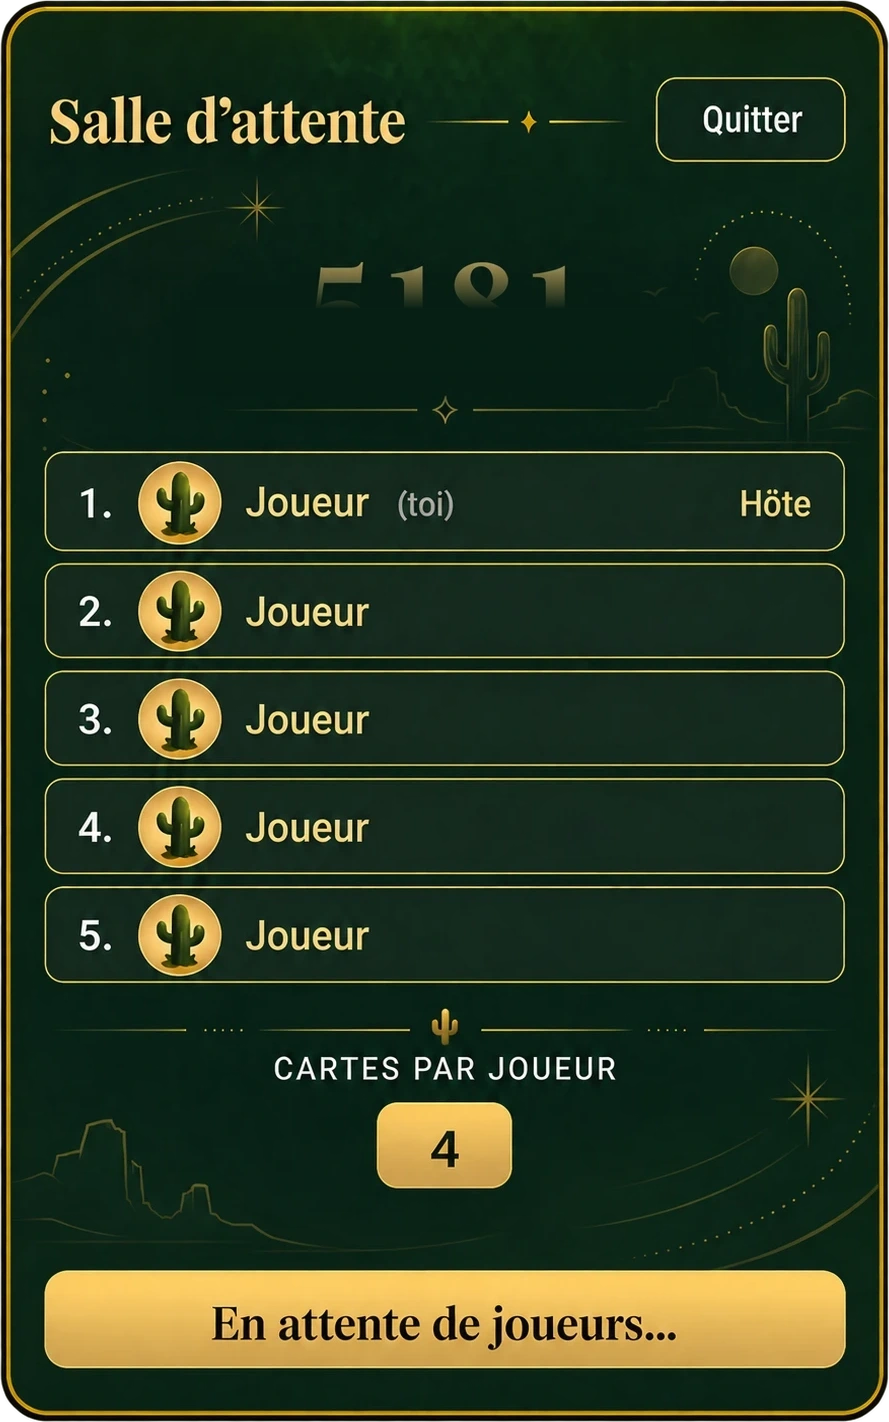
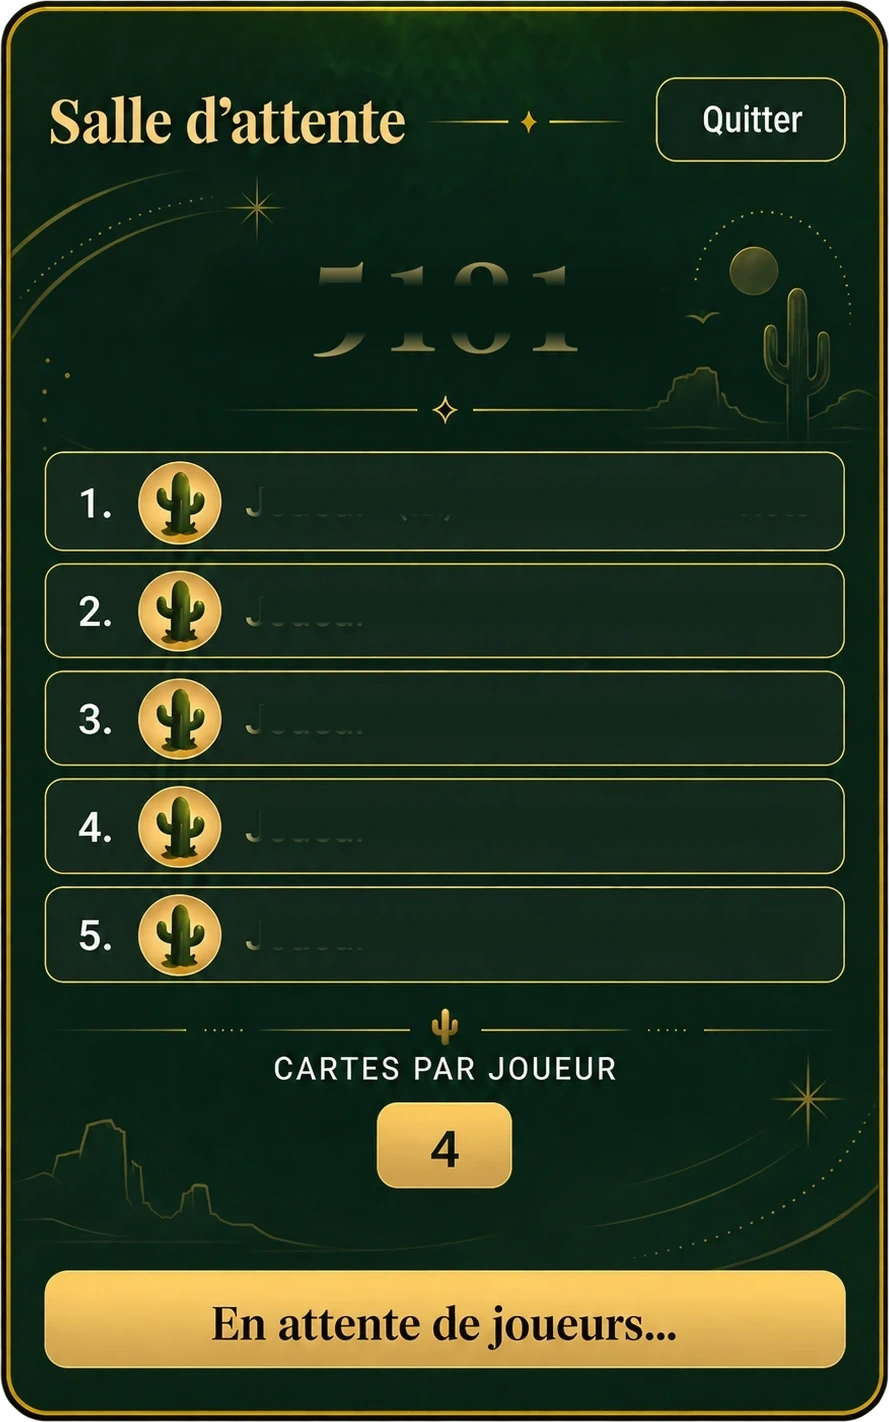
Salle d'attente : poser les joueurs sur les lignes peintes
Les lignes etaient recouvertes par des blocs dessines, qui se touchaient et
cachaient les medaillons. Maintenant le cadre, le numero et le medaillon de
chaque ligne viennent de l'image, l'avatar est pose dans le rond dore et le
pseudo dans la zone liberee. Les textes peints (« Joueur », « toi », « Hote »)
et le numero de salle ont ete effaces des cinq images, bords fondus.

diff --git a/public/index.html b/public/index.html
@@ -295,7 +295,7 @@ body[data-screen="lobby"] #profile-btn{display:block}
 /* The card artwork is a fixed 1473x794 image (public/profile-card-bg.webp). Every slot below
    is placed on a frame painted in it, so these values must be re-measured if the image changes. */
 .profil-card{position:relative;width:1473px;height:794px;flex-shrink:0;background:url('/profile-card-bg.webp') center/100% 100% no-repeat;filter:drop-shadow(0 24px 50px rgba(0,0,0,.6));font-family:'Playfair Display',serif;color:#0b221c;font-variant-numeric:lining-nums;animation:slideUp .3s cubic-bezier(.34,1.56,.64,1) both}
-.cactus-close{position:absolute;width:44px;height:44px;padding:0;border:0;background:url('/close-cactus.webp?v=4') center/contain no-repeat;cursor:pointer;filter:drop-shadow(0 3px 5px rgba(0,0,0,.35));transition:transform .18s ease}
+.cactus-close{position:absolute;width:44px;height:44px;padding:0;border:0;background:url('/close-cactus.webp?v=5') center/contain no-repeat;cursor:pointer;filter:drop-shadow(0 3px 5px rgba(0,0,0,.35));transition:transform .18s ease}
 .cactus-close:hover{transform:scale(1.1)}
 .cactus-close:active{transform:scale(.95)}
 .pc-close{top:30px;right:36px;width:56px;height:56px}
@@ -546,15 +546,14 @@ body[data-screen="lobby"] #profile-btn{display:block}
 .wt-quit{position:absolute;left:74.2%;width:20.6%}
 .wt-code{position:absolute;left:0;right:0;text-align:center;font-family:'Playfair Display',serif;
   font-weight:700;color:#f7d98c;letter-spacing:.04em;line-height:1;text-shadow:0 2px 6px rgba(0,0,0,.5)}
-.wt-row{position:absolute;left:5.2%;right:5.2%;display:flex;align-items:center;border-radius:14px;
-  background:#12281c;color:#f4d79a;overflow:hidden}
-.wt-num{flex-shrink:0;text-align:center;font-weight:600;color:#f4d79a}
-.wt-av{flex-shrink:0;border-radius:50%;overflow:hidden;border:2px solid #d9a441;
-  background:radial-gradient(circle at 50% 40%,#f6e2ae,#e2b867);box-shadow:0 1px 4px rgba(0,0,0,.45)}
+.wt-row{position:absolute;left:0;right:0;cursor:pointer}
+.wt-av{position:absolute;border-radius:50%;overflow:hidden}
 .wt-av img{width:100%;height:141%;object-fit:cover;object-position:center top;display:block}
-.wt-name{min-width:0;font-weight:600;white-space:nowrap;overflow:hidden;text-overflow:ellipsis}
-.wt-moi{flex-shrink:0;color:rgba(244,215,154,.6)}
-.wt-host{margin-left:auto;flex-shrink:0;color:#f7d98c;font-weight:600}
+.wt-txt{position:absolute;left:28%;right:6.5%;top:0;bottom:0;display:flex;align-items:center;gap:.5em;
+  color:#f4d79a;font-family:'Poppins',sans-serif;font-weight:600}
+.wt-name{min-width:0;white-space:nowrap;overflow:hidden;text-overflow:ellipsis}
+.wt-moi{flex-shrink:0;font-weight:400;font-size:.76em;color:rgba(244,215,154,.6)}
+.wt-host{margin-left:auto;flex-shrink:0;color:#f7d98c}
 .wt-row.off{opacity:.55}
 .wt-cc{position:absolute;font-family:'Playfair Display',serif;font-weight:700;color:#2a1c06;
   background:transparent;display:flex;align-items:center;justify-content:center}
@@ -2976,11 +2975,11 @@ function refreshFriendBadge(){
 // Repères mesurés sur chaque maquette de salle d'attente (en % de l'image) :
 // une image par nombre de joueurs, le reste est posé dessus.
 const WAIT_GEO = {
-  1:{w:882,h:1212,rows:[45.2],rowH:9.7,code:[24.8,7.7],cc:[67.4,7.7],go:[86.4,8.3],quit:[7.3,5.7]},
-  2:{w:885,h:1289,rows:[42.8,51.7],rowH:9.0,code:[23.6,7.3],cc:[73.2,7.1],go:[87.0,7.9],quit:[6.8,5.4]},
-  3:{w:884,h:1362,rows:[40.2,49.8,57.9],rowH:8.3,code:[22.2,6.8],cc:[77.1,6.4],go:[88.9,7.3],quit:[6.5,5.1]},
-  4:{w:893,h:1372,rows:[34.3,43.4,52.0,60.6],rowH:7.6,code:[22.0,6.8],cc:[77.3,6.3],go:[89.0,7.1],quit:[6.4,5.0]},
-  5:{w:889,h:1422,rows:[31.8,39.6,47.2,54.7,62.3],rowH:6.7,code:[21.2,6.5],cc:[77.5,6.0],go:[89.3,6.9],quit:[6.2,4.9]},
+  1:{w:882,h:1212,rows:[45.2],rowH:9.7,code:[24.83,7.68],cc:[67.4,7.7],go:[86.4,8.3],quit:[7.3,5.7]},
+  2:{w:885,h:1289,rows:[42.8,51.7],rowH:9.0,code:[23.66,7.22],cc:[73.2,7.1],go:[87.0,7.9],quit:[6.8,5.4]},
+  3:{w:884,h:1362,rows:[40.2,49.8,57.9],rowH:8.3,code:[22.25,6.82],cc:[77.1,6.4],go:[88.9,7.3],quit:[6.5,5.1]},
+  4:{w:893,h:1372,rows:[34.3,43.4,52.0,60.6],rowH:7.6,code:[19.83,6.85],cc:[77.3,6.3],go:[89.0,7.1],quit:[6.4,5.0]},
+  5:{w:889,h:1422,rows:[31.8,39.6,47.2,54.7,62.3],rowH:6.7,code:[18.50,6.54],cc:[77.5,6.0],go:[89.3,6.9],quit:[6.2,4.9]},
 };
 const WAIT_MAX_H = 431;   // hauteur libre entre le trait du titre et l'ornement du bas
 
@@ -2990,7 +2989,7 @@ function renderWaiting(){
   const n = Math.min(5, Math.max(1, lobbyPlayers.length || 1));
   const g = WAIT_GEO[n];
   const H = WAIT_MAX_H, W = Math.round(H * g.w / g.h);
-  el.style.backgroundImage = "url('/ui-wait-" + n + ".webp?v=3')";
+  el.style.backgroundImage = "url('/ui-wait-" + n + ".webp?v=5')";
   el.style.width = W + 'px';
   el.style.height = H + 'px';
 
@@ -3010,24 +3009,26 @@ function renderWaiting(){
   go.style.top = g.go[0] + '%'; go.style.height = g.go[1] + '%';
   go.style.fontSize = (g.go[1] / 100 * H * 0.42).toFixed(1) + 'px';
 
-  // Lignes de joueurs : on recouvre la ligne peinte pour y mettre le vrai joueur
+  // Les lignes sont peintes dans l'image (cadre, numero, medaillon) : on ne pose
+  // que l'avatar dans le medaillon et le texte dans la zone laissee libre.
   const liste = qid('lobby-players-list');
-  const rowH = g.rowH / 100 * H;
+  const rowH = g.rowH / 100 * H;              // hauteur d'une ligne, en pixels
+  const avH = (g.rowH * 0.78).toFixed(2);     // l'avatar tient dans le rond dore
+  const avW = (avH * H / W).toFixed(2);
   liste.innerHTML = lobbyPlayers.map((p, i) => {
     const haut = g.rows[Math.min(i, g.rows.length - 1)];
-    const moi = i === myIndex;
-    const hote = i === hostIndex;
+    const moi = i === myIndex, hote = i === hostIndex;
+    const centre = (haut + g.rowH / 2).toFixed(2);
     return '<div class="wt-row' + (p.connected === false ? ' off' : '') + '" onclick="openLobbyMenu(event, ' + i + ')"' +
-      ' style="top:' + haut + '%;height:' + g.rowH + '%;padding:0 ' + (rowH * .32).toFixed(0) + 'px;' +
-      'font-size:' + (rowH * .34).toFixed(1) + 'px;gap:' + (rowH * .22).toFixed(0) + 'px">' +
-      '<span class="wt-num" style="width:' + (rowH * .55).toFixed(0) + 'px">' + (i + 1) + '.</span>' +
-      '<span class="wt-av" style="width:' + (rowH * .66).toFixed(0) + 'px;height:' + (rowH * .66).toFixed(0) + 'px">' +
+      ' style="top:' + haut + '%;height:' + g.rowH + '%">' +
+      '<span class="wt-av" style="left:15.6%;width:' + avW + '%;top:' + (Number(centre) - Number(avH) / 2).toFixed(2) + '%;height:' + avH + '%">' +
         '<img src="' + avatarImg(typeof p.avatar === 'number' ? p.avatar : null) + '" alt=""></span>' +
-      '<span class="wt-name">' + escapeHtml(p.name) + '</span>' +
-      (moi ? '<span class="wt-moi" style="font-size:' + (rowH * .26).toFixed(1) + 'px">(toi)</span>' : '') +
-      (hote ? '<span class="wt-host">Hôte</span>' : '') +
-      (p.connected === false ? '<span class="wt-moi" style="margin-left:auto;font-size:' + (rowH * .24).toFixed(1) + 'px">reconnexion...</span>' : '') +
-      '</div>';
+      '<span class="wt-txt" style="font-size:' + (rowH * 0.36).toFixed(1) + 'px">' +
+        '<span class="wt-name">' + escapeHtml(p.name) + '</span>' +
+        (moi ? '<span class="wt-moi">(toi)</span>' : '') +
+        (p.connected === false ? '<span class="wt-moi">reconnexion...</span>' : '') +
+        (hote ? '<span class="wt-host">Hôte</span>' : '') +
+      '</span></div>';
   }).join('');
 }
 
